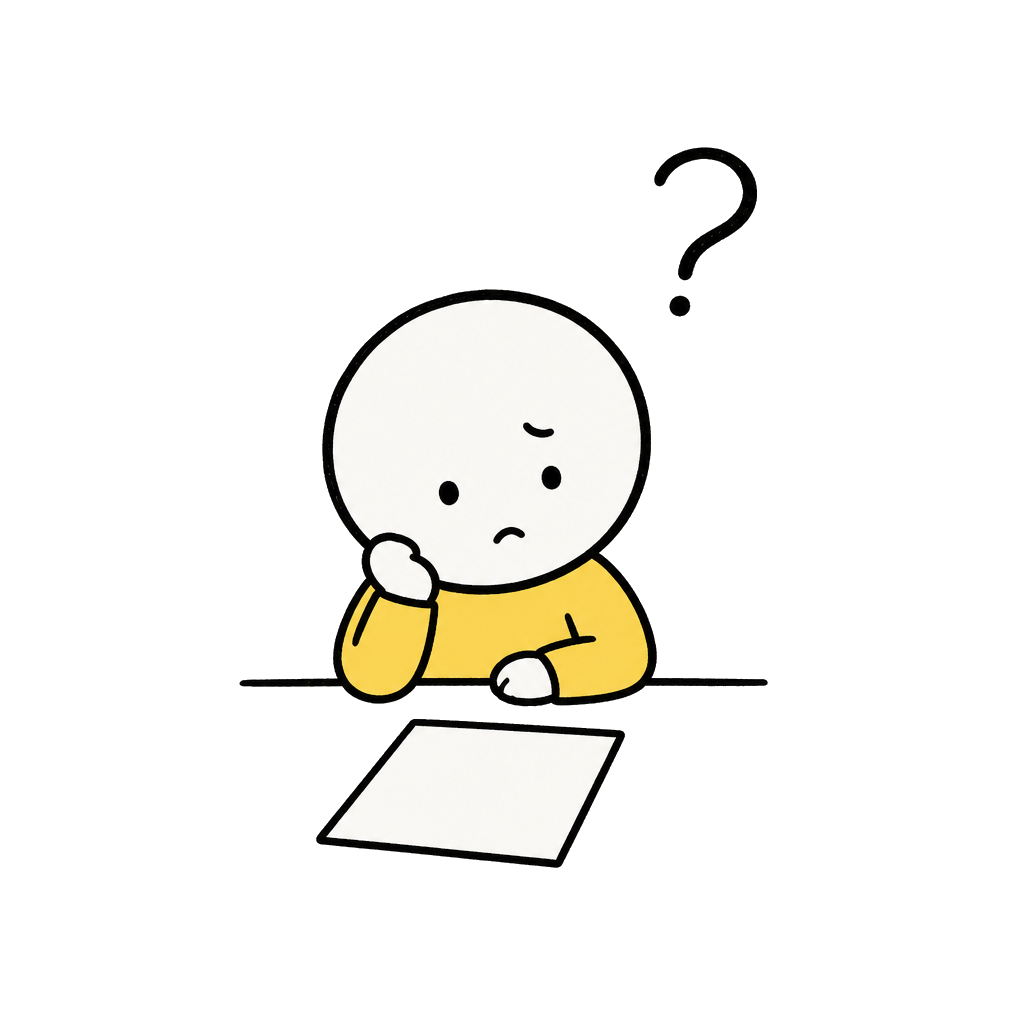
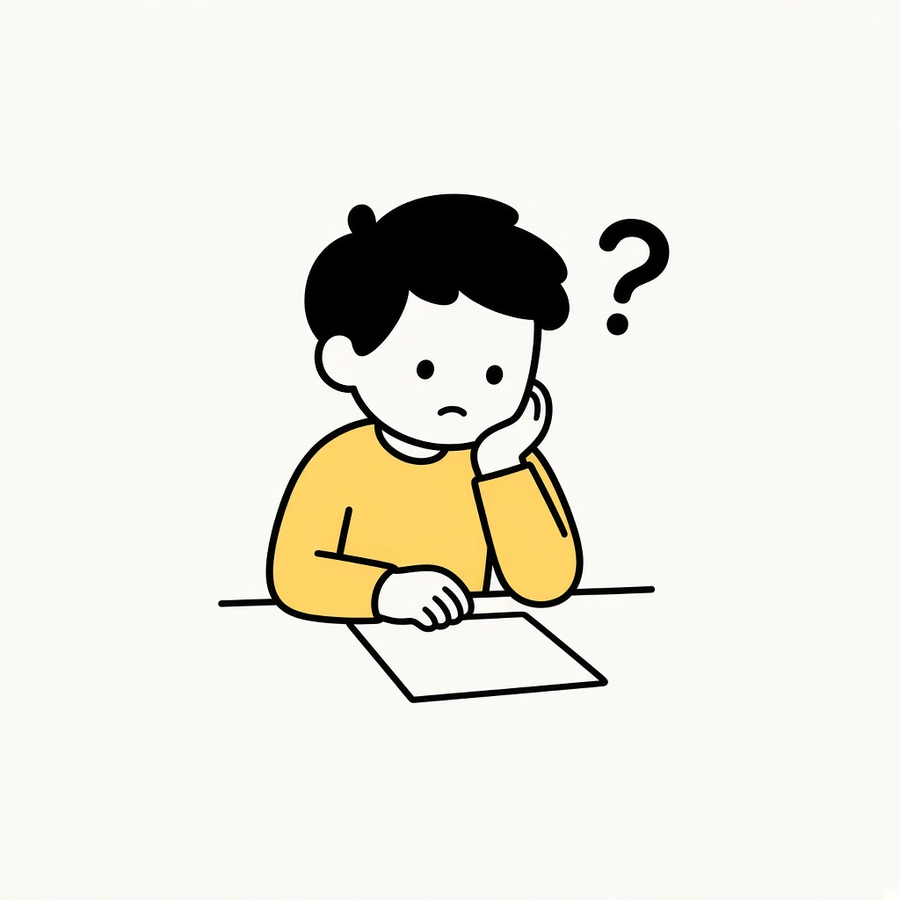
Use one Notion cartoon boy across the homepage, about, and 404.
Replace the mixed crew with a single yellow-sweater mascot, and drop the extra overlay characters.

Changed region(s): [[0.2178, 0.1244, 0.7467, 0.8089], [0.3111, 0.7778, 0.56, 0.8711], [0.3422, 0.7467, 0.3733, 0.7778]]

diff --git a/src/components/Hero.tsx b/src/components/Hero.tsx
@@ -47,34 +47,12 @@ export function Hero() {
           </div>
         </div>
 
-        <div className="relative mx-auto w-full max-w-xl pt-8 lg:max-w-none lg:pt-4">
+        <div className="relative mx-auto w-full max-w-xl lg:max-w-none">
           <Image
-            src="/illustrations/wave.png"
-            alt=""
-            width={220}
-            height={220}
-            priority
-            className="pointer-events-none absolute -top-2 right-2 z-10 w-[5.5rem] bob-slow sm:w-28 lg:-top-6 lg:right-4 lg:w-32"
-          />
-          <Image
-            src="/illustrations/plant.png"
-            alt=""
-            width={180}
-            height={180}
-            className="pointer-events-none absolute bottom-2 left-0 z-10 w-20 bob sm:w-24 lg:-left-4 lg:w-28"
-          />
-          <Image
-            src="/illustrations/laptop.png"
-            alt=""
-            width={200}
-            height={200}
-            className="pointer-events-none absolute -bottom-4 right-[18%] z-10 hidden w-24 bob-slow sm:block lg:w-28"
-          />
-          <Image
-            src="/illustrations/hero-crew.png"
-            alt="Notion 风格卡通人物：写代码、挥手打招呼、坐在便签上喝咖啡"
-            width={1536}
-            height={1024}
+            src="/illustrations/hero.png"
+            alt="Notion 风格卡通男生：黄毛衣，盘腿坐着写代码，一边挥手打招呼"
+            width={1600}
+            height={1200}
             priority
             className="relative z-0 w-full"
           />

diff --git a/src/app/not-found.tsx b/src/app/not-found.tsx
@@ -12,9 +12,9 @@ export default function NotFound() {
     <main className="mx-auto flex w-full max-w-6xl flex-1 flex-col items-center justify-center px-5 py-16 text-center sm:px-8 sm:py-24">
       <Image
         src="/illustrations/lost.png"
-        alt=""
-        width={280}
-        height={280}
+        alt="同一个卡通男生坐在桌前，一脸困惑"
+        width={900}
+        height={900}
         className="w-44 sm:w-56"
       />
       <p className="mt-6 inline-flex items-center rounded-full bg-yellow px-2.5 py-0.5 text-xs font-extrabold tracking-wide">

diff --git a/src/components/About.tsx b/src/components/About.tsx
@@ -16,9 +16,9 @@ export function About() {
         </div>
         <Image
           src="/illustrations/plant.png"
-          alt=""
-          width={320}
-          height={320}
+          alt="同一个卡通男生蹲着，捧着一盆绿植"
+          width={900}
+          height={900}
           className="mx-auto w-48 bob-slow sm:w-56 lg:w-full"
         />
       </div>
